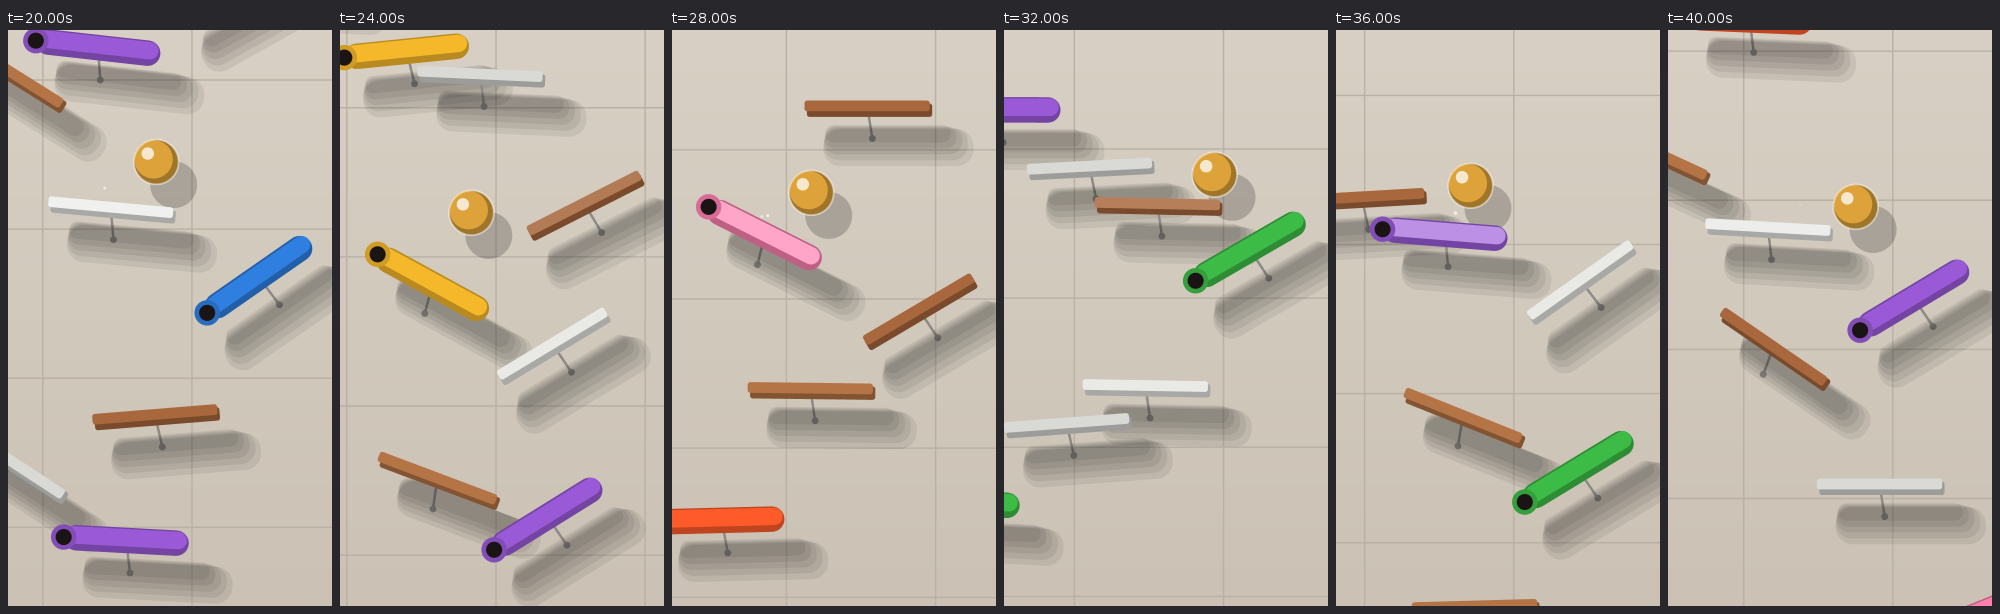
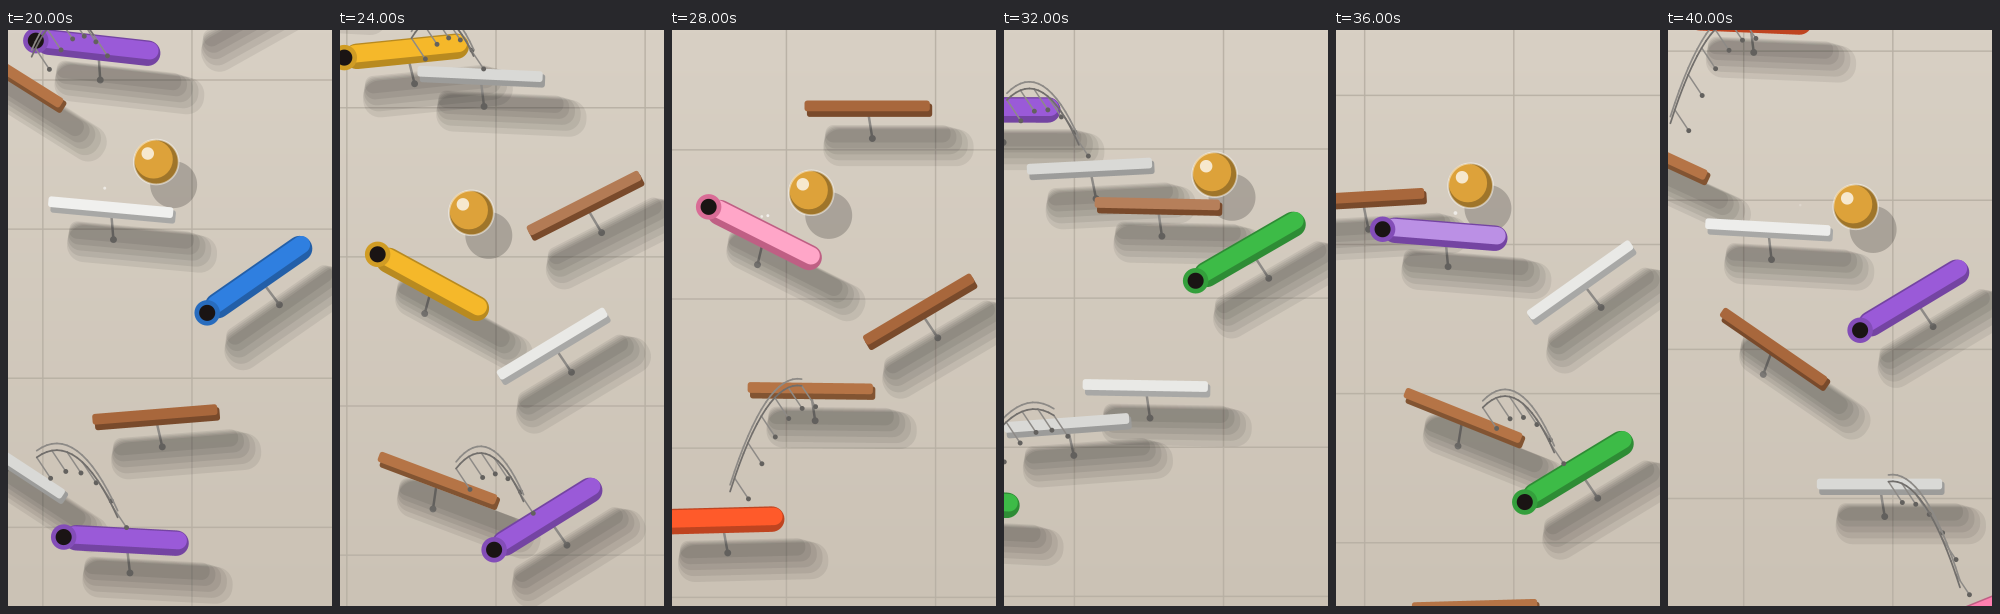
Platform Marble Machine: wire rails on pins along real flight paths (XXKuRGV7bXM)
Claude-Session: https://claude.ai/code/session_01S3A4w7DDqDnci9S3yTkWee

diff --git a/core/src/main/kotlin/com/rhythmphysics/core/mechanic/platform/PlatformMechanic.kt b/core/src/main/kotlin/com/rhythmphysics/core/mechanic/platform/PlatformMechanic.kt
@@ -301,6 +301,34 @@ class PlatformMechanic : MechanicController {
                 }
             }
         }
+        // Wire rails (marble machine): every fifth flight is carried by a two-wire rail on pins that
+        // follows the marble's real path just below it, like the rails in the reference.
+        if (look == "marble") {
+            val vr = planner.ballRadius * vis.heroSize
+            val rc = palette.text
+            for (i in 1 until cs.size) {
+                if (i % 5 != 2) continue
+                val a = cs[i - 1]; val b = cs[i]
+                if (t - b.timeSec > 4.0 || a.timeSec - t > 5.0) continue
+                val segs = 16
+                var px0 = 0f; var py0 = 0f; var px1 = 0f; var py1 = 0f
+                for (k in 0..segs) {
+                    val tt = a.timeSec + (b.timeSec - a.timeSec) * (0.1 + 0.8 * k / segs)
+                    val p = planner.ballAt(tt)
+                    val x = cam.sx(p.x); val y0 = cam.sy(p.y - vr * 1.05); val y1 = cam.sy(p.y - vr * 1.35)
+                    if (k > 0) {
+                        dl.line(px0, py0, x, y0, max(1f, ppu * 0.035f), rc, true)
+                        dl.line(px1, py1, x, y1, max(1f, ppu * 0.035f), Colors.scale(rc, 0.8f), true)
+                    }
+                    if (k % 3 == 0) {
+                        // Support pin into the wall, with its shadow.
+                        dl.line(x, y1, x + shOff * 0.8f, y1 + shOff * 1.2f, max(1f, ppu * 0.03f), rc, true)
+                        dl.circle(x + shOff * 0.8f, y1 + shOff * 1.2f, max(1.5f, ppu * 0.05f), Colors.scale(rc, 0.7f))
+                    }
+                    px0 = x; py0 = y0; px1 = x; py1 = y1
+                }
+            }
+        }
         // Trail (neon / stones glow trails), then the marble.
         val trailColor = vis.trailColor?.let { Colors.parse(it) } ?: palette.trail
         if (vis.trailOpacity > 0.01) {
